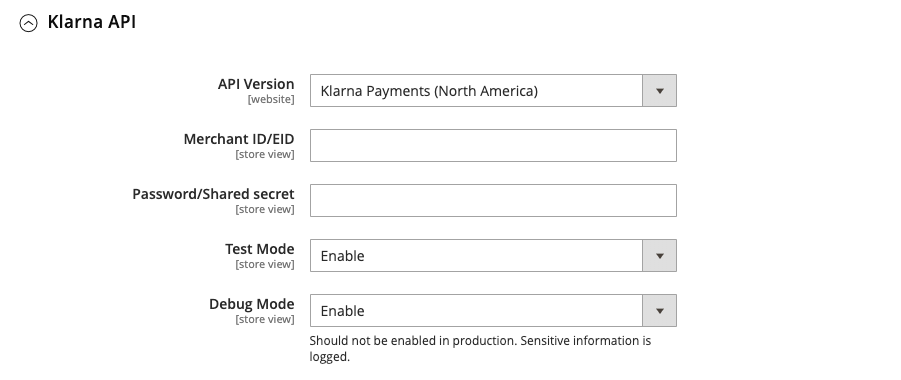
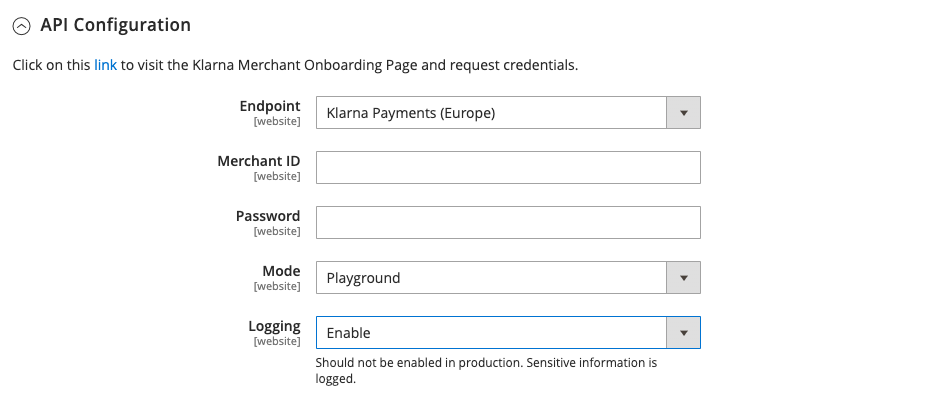
klarna-2.3.5-updates (#461)
* removing eap header

* Configuration UI Updates

Updated names of configuration sections and field labels. In API Configuration section, the scope of each setting has changed from Store View to Website.

* Updated Intro

Added new intro sentence and updated Changes in the Latest Release

* Updated setup instrutions

Updated instructions for field label changes.

* Reworked opening paragraph

Removed market-speak, but kept the main points.

* Updated Change Log

Added Klarna updates to Change Log

* Updated screenshots

Updated configuration screenshots for new titles and field labels.

* Update src/configuration/sales/klarna.md

* Update src/configuration/sales/klarna.md

* Update src/configuration/sales/klarna.md

* Update src/payment/klarna-setup.md

* Update src/payment/klarna.md

* Update src/payment/klarna-setup.md

* Fixed typo

Fixed API Configuration.

diff --git a/src/_includes/layout/page-header.html b/src/_includes/layout/page-header.html
@@ -1,12 +1,6 @@
 <!-- page-header -->
 <section class="page-intro">
 
-  {% if page.tag == "product-recommendations" %}
-    <div class="message-banner">
-      This documentation is for the Product Recommendations Early Access Program. If you would like to participate, <a href="mailto:magento-product-recs-feedback@adobe.com">E-mail us</a>!
-    </div>
-  {% endif %}
-
   {% if page.tag == "google-shopping" %}
     <div class="message-banner">
       <b>Google Shopping ads Channel will be disabled on April 28, 2020. See <a href="https://docs.magento.com/m2/ce/user_guide/sales-channels/google-ads/google-eol.html">End of Life</a> for more information.</b>

diff --git a/src/payment/klarna-setup.md b/src/payment/klarna-setup.md
@@ -62,36 +62,39 @@ _Klarna Merchant Portal_
    ![Klarna]({% link images/images/config-sales-payment-methods-recommended-solutions-klarna.png %}){: .zoom}
    [_Klarna_]({% link configuration/sales/klarna.md %})
 
-1. Expand ![]({% link images/images/btn-expand.png %}){: .Inline} the **Klarna API** section. Then, do the following:
+1. Expand ![]({% link images/images/btn-expand.png %}){: .Inline} the **API Configuration** section. Then, do the following:
 
-   - Set **API Version** to one of the following:
-      - **Klarna Payments (Europe)**:
-         - Supported countries: AT / DE / DK / FI / NL / NO / SE / UK / CH
+   - Set **Endpoint** to one of the following:
+
       - **Klarna Payments (North America)**
-         - Supported countries: CA / US
-   - In the **Merchant ID/EID** field, enter the **Merchant ID** from your Klarna credentials.
-   - In the **Password/Shared secret** field, enter the **password** from your Klarna API credentials.
-   - To use the Klarna Playground for test transactions, set **Test Mode** to `Yes`.
-   - To generate a record of interactions while testing the integration, set **Debug Mode** to `Yes`.
+      - **Klarna Payments (Europe)**
+      - **Klarna Payments (Oceana)**
+      
+      Supported countries:  AT, DE, DK, FI, NL, NO, SE, US, AU, NZ  
+
+   - Enter the **Merchant ID** from your Klarna account.
+   - Enter the **Password** from your Klarna account.
+   - To use the Klarna Playground for test transactions, set **Mode** to `Playground`.
+   - To generate a record of interactions while testing the integration, set **Logging** to `Enable`.
 
      {:.bs-callout-info}
-     Turn Debug Mode off before going live with Klarna in your production store.
+     Set **Logging** to `Disabled` before going live with Klarna in your production store.
 
-     ![Klarna API]({% link images/images/config-sales-payment-methods-klarna-api.png %}){: .zoom}
-     [_Klarna API_]({% link configuration/sales/klarna.md %})
+     ![API Configuration]({% link images/images/config-sales-payment-methods-klarna-api.png %}){: .zoom}
+     [_API Configuration_]({% link configuration/sales/klarna.md %})
 
 1. Expand ![]({% link images/images/btn-expand.png %}){: .Inline} the **Klarna Payments** section. then, do the following:
 
-   - Set **Enable this Solution** to `Yes`.
-   - Set **Payment from applicable countries** to one of the following:
+   - Set **Enable** to `Yes`.
+   - Set **Allowed Countries** to one of the following:
 
       |**All Allowed Countries** |Customers from all [countries]({% link stores/country-options.md %}) specified in your store configuration can use this payment method.|
-      |**Specific Countries** |After choosing this option, the Payment from Specific Countries list appears. Hold down the Ctrl key and select each country in the list where customers can make purchases from your store.|
+      |**Specific Countries** |When selected, the Payment from Specific Countries list appears. Hold down the Ctrl key (PC) or the Command key (Mac) and select each country in the list where customers can make purchases from your store.|
 
    - If your Klarna account supports B2B payments, set **Enable B2B** to `Yes`.
-   - If you want Klarna to prepare a set of personalized credit options for each customer, set **Data sharing** to `Yes`.
+   - If you want Klarna to prepare a set of personalized credit options for each customer, set **Enable Data sharing** to `Yes`.
 
-   - Set **Data sharing on load** to one of the following:
+   - Set **Enable Data sharing on load** to one of the following:
 
      |**No** |Customer billing and shipping address information is shared with Klarna after the transaction is authorized. If a shipping address error is encountered during authorization, the customer is instructed to return to the previous step and correct the problem.|
      |**Yes** |Customer billing and shipping address information is shared with Klarna when the payment method is selected during the checkout process.|
@@ -107,7 +110,7 @@ _Klarna Merchant Portal_
 
 ## Step 3: Complete the Design Settings **(Optional)**
 
-You can complete the Klarna Payment Design Settings now, or at a later time. You might use a color picker to experiment with different colors for each element to match your store’s theme. The results might vary, depending on theme.
+You can complete the Design settings now, or at a later time. You might use a color picker to experiment with different colors for each element to match your store’s theme. The results might vary, depending on theme.
 
 Enter the hexadecimal value of the color that you want to use for the following elements.
 
@@ -118,6 +121,6 @@ Enter the hexadecimal value of the color that you want to use for the following 
 - Border radius
 
 ![Klarna Payments Design]({% link images/images/config-sales-payment-methods-klarna-payments-design.png %}){: .zoom}
- [_Klarna Payments Design_]({% link configuration/sales/klarna.md %})
+ [_Design_]({% link configuration/sales/klarna.md %})
 
 When complete, click <span class="btn">Save Config</span>. Then when prompted, click the [**Cache Management**]({% link system/cache-management.md %}) link at the top of the page to refresh all invalid caches.

diff --git a/src/configuration/sales/klarna.md b/src/configuration/sales/klarna.md
@@ -4,18 +4,18 @@ title: Klarna
 
 Stores > Settings > [Configuration]({% link stores/configuration.md %}) > [Sales]({% link configuration/sales.md %}) > [Payment Methods]({% link configuration/sales/payment-methods.md %}) > Klarna
 
-## Klarna API
+## API Configuration
 
 ![]({% link images/images/config-sales-payment-methods-klarna-api.png %}){: .zoom}
-[_Klarna API_]({% link payment/klarna-setup.md %})
+[_API Configuration_]({% link payment/klarna-setup.md %})
 
 |Field|[Scope]({% link configuration/scope.md %})|Description|
 |--- |--- |--- |
-|API Version|Store View|Indicates the version of Klarna that is currently installed on the website. Options: Klarna Payments (North America) / Klarna Payments (Europe) - supported countries are AT, DE, DK, FI, NL, NO, SE|
-|Merchant ID/EID|Store View|The unique Store ID from your Klarna account. Your Store ID is located in the upper-left corner of the Store Settings tab in the Klarna Merchant Portal.|
-|Password/Shared secret|Store View|The password or shared secret from your Klarna account.|
-|Test Mode|Store View|Determines if Klarna is currently operating in a test environment for the store view. Options: Enable / Disable|
-|Debug Mode|Store View|(For development only) Determines if a log is generated of all actions. Options: Enable / Disable <br/><br/>**_Important:_** Debug Mode exposes sensitive information, and is not to be used in a production environment.|
+|Endpoint|Website|Indicates the version of Klarna that is currently installed on the website. Options: Klarna Payments (North America) / Klarna Payments (Europe) / Klarna Payments (Oceania) Supported countries: AT, DE, DK, FI, NL, NO, SE, US, AU, NZ|
+|Merchant ID|Website|The Merchant ID from your Klarna account. Your Merchant ID is located in the upper-left corner of the _Store Settings_ tab in the Klarna Merchant Portal.|
+|Password|Website|The API password from your Klarna account.|
+|Mode|Website|Determines if Klarna is currently operating in a playground or production environment for the store. Options: Playground/ Production|
+|Logging|Website|(For development only) Determines if a log is generated of all actions. Options: Enable / Disable<br/><br/>**_Important:_** Logging exposes sensitive information and is not to be used in a production environment.|
 
 ## Klarna Payments
 
@@ -24,17 +24,17 @@ Stores > Settings > [Configuration]({% link stores/configuration.md %}) > [Sale
 
 |Field|[Scope]({% link configuration/scope.md %})|Description|
 |--- |--- |--- |
-|Enable this Solution|Store View|Enables Klarna for the current store view. Options: Yes / No|
-|Payment from applicable countries|Store View|Determines the countries where Klarna is available for this store view. Options: All Allowed Countries / Specific Countries|
+|Enable|Store View|Enables Klarna for the current store view. Options: Yes / No|
+|Allowed Countries|Store View|Determines the countries where Klarna is available for this store view. Options: All Allowed Countries / Specific Countries|
 |Enable B2B|Store View|Allows B2B payments, if previously set up in your Klarna account. Options: Yes / No|
-|Data sharing|Store View|Determines if customer data is shared with Klarna before the customer places an order. Sharing data allows Klarna to personalize credit offerings for the customer. Options: Yes / No|
-|Data sharing on load|Store View|Allows you to determine when customer data is shared with Klarna. Options:<br />**No**: Customer billing and shipping address information is shared with Klarna after the transaction is authorized. If a shipping address error is encountered during authorization, the customer is instructed to return to the previous step and correct the problem.<br />**Yes**: Customer billing and shipping address information is shared with Klarna when the payment method is selected during the checkout process.|
+|Enable Data sharing|Store View|Determines if customer data is shared with Klarna before the customer places an order. Sharing data allows Klarna to personalize credit offerings for the customer. Options: Yes / No|
+|Enable Data sharing on load|Store View|Allows you to determine when customer data is shared with Klarna. Options:<br />**No** - Customer billing and shipping address information is shared with Klarna after the transaction is authorized. If a shipping address error is encountered during authorization, the customer is instructed to return to the previous step and correct the problem.<br />**Yes** - Customer billing and shipping address information is shared with Klarna when the payment method is selected during the checkout process.|
 |Sort Order|Store View|A number that determines the sequence in which Klarna appears with other payment methods during checkout. If left blank, Klarna appears next in the list of active payment methods.|
 
-## Klarna Payments Design
+## Design
 
 ![]({% link images/images/config-sales-payment-methods-klarna-payments-design.png %}){: .zoom}
-[_Klarna Payments Design_]({% link payment/klarna-setup.md %})
+[_Design_]({% link payment/klarna-setup.md %})
 
 |Field|[Scope]({% link configuration/scope.md %})|Description|
 |--- |--- |--- |

diff --git a/src/magento/change-log.md b/src/magento/change-log.md
@@ -34,6 +34,7 @@ Our documentation is continually updated with new topics, clarifications, and co
 {: .topics-table }
 |Topic |Change|
 |--- |--- |
+|[Klarna]({% link payment/klarna.md %})<br />[Setting Up Klarna]({% link payment/klarna-setup.md %})<br />[Klarna]({% link configuration/sales/klarna.md %}) (reference)|Updated Changes In the Latest Release, and configuration section titles and field labels.|
 |[Configure Global Options]({% link catalog/inventory-options-global.md %})|Added information for the new _Synchronize with Catalog_ option provided by Inventory Management. |<!--{% if "Default.EE-B2B" contains site.edition %}-->
 |[Banner]({% link cms/page-builder-media-banner.md %})<br/>[Row]({% link cms/page-builder-layout-row.md %})<br/>[Slider]({% link cms/page-builder-media-slider.md %})|Updated content for new _Minimum Height_ option and support for full-height functionality. Additional content for new video background feature.|
 |[Video]({% link cms/page-builder-media-video.md %})|Additional content for new _Autoplay_ feature.|

diff --git a/src/payment/klarna.md b/src/payment/klarna.md
@@ -2,11 +2,14 @@
 title: Klarna
 ---
 
-Klarna lets your customers choose how they want to pay, and supports the purchase with buyer protection and excellent customer service.
+Klarna lets your customers choose how they want to pay and supports the purchase with buyer protection and excellent customer service. Your customers can buy now and pay later, while you receive payment in full at the time of purchase.
 
 ## Changes In the Latest Release
 
-In the Magento configuration, the Klarna Payments section has a new "Data sharing on load" field that can be set to share customer data after the transaction is authorized, or when the Klarna payment method is selected during checkout.
+### New Features
+
+-  Added support for Australia and New Zealand markets
+-  Improved configuration: Changed scope of API Configuration from `Store View` to `Website`; updated section name and field label changes.
 
 ## Klarna payment methods
 
